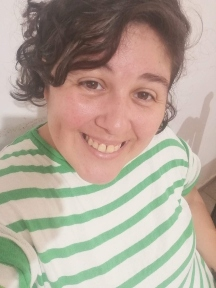
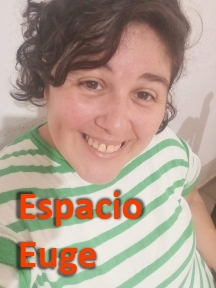
suma de media queries

Changed region(s): [[0.0556, 0.6562, 0.6944, 0.8125], [0.0556, 0.8125, 0.4722, 0.9688]]

diff --git a/css/style.css b/css/style.css
@@ -37,13 +37,7 @@ a {
     margin-left: 30px;
 }
 .head__fotoyo {
-    width: 100%;
-}
-h2.head__tituloyo {
-    font-size: 42px;
-    color: #F53D00;
-    padding: 10px;
-    text-shadow: 0 0 15px black;
+    width: 80%;
 }
 .head__natura {
     grid-area: natura;
@@ -71,7 +65,7 @@ div.head__nav ul {
     font-weight: bold;
     padding: 5px;
 }
-/* FlexBox Foot */
+/* Grid Foot */
 footer {
     display: grid;
     grid-template-areas: "nav2 navrrss";
@@ -334,16 +328,16 @@ h2.galeria__titulo {
     padding: 20px;
 }
 /* Pronta Final */
-/* M]edia tablet */
+/* Media tablet */
 @media only screen and (min-width:769px) and (max-width:1024px) {
     a {
         font-size: 18px; 
     } 
     .head {
         display: grid;
-        grid-template-areas: "euge euge natura"
-                            ". nav1 nav1";
-        grid-template-columns: 25% 50% auto;
+        grid-template-areas: "euge  natura"
+                            ".  nav1";
+        grid-template-columns: 50% auto;
         background-size: cover;
         width: 100%;
     }
@@ -412,7 +406,7 @@ h2.galeria__titulo {
     /* Online Final */
 }
 /* Media Mobile */
-@media only screen and (min-width:400px) and (max-width:768px) {
+@media only screen and (min-width:0px) and (max-width:768px) {
     /* Grid Head */
     .head {
         display: grid;
@@ -521,4 +515,3 @@ h2.galeria__titulo {
         margin-left: 0px;
     }
 }
-/* Media  Mini jajaja (mi celu no se como poenrlo */

diff --git a/pages/actualciclo.html b/pages/actualciclo.html
@@ -11,7 +11,6 @@
     <header class="head">
         <div class="head__yo">
             <a href="../index.html"><img class="head__fotoyo" src="../images/fotoperfil.jpg" alt="Foto de perfil de Euge"></a>
-            <h2 class="head__tituloyo">Espacio Euge</h2>
         </div>
         <div class="head__natura">
             <img class="head__logonatura" src="../images/logonatura.jpg" alt="Logo de Natura">

diff --git a/pages/online.html b/pages/online.html
@@ -11,7 +11,6 @@
     <header class="head">
         <div class="head__yo">
             <a href="../index.html"><img class="head__fotoyo" src="../images/fotoperfil.jpg" alt="Foto de perfil de Euge"></a>
-            <h2 class="head__tituloyo">Espacio Euge</h2>
         </div>
         <div class="head__natura">
             <img class="head__logonatura" src="../images/logonatura.jpg" alt="Logo de Natura">

diff --git a/pages/contacto.html b/pages/contacto.html
@@ -11,7 +11,6 @@
     <header class="head">
        <div class="head__yo">
             <a href="../index.html"><img class="head__fotoyo" src="../images/fotoperfil.jpg" alt="Foto de perfil de Euge"></a>
-            <h2 class="head__tituloyo">Espacio Euge</h2>
         </div>
         <div class="head__natura">
             <img class="head__logonatura" src="../images/logonatura.jpg" alt="Logo de Natura">

diff --git a/pages/pronta.html b/pages/pronta.html
@@ -11,7 +11,6 @@
     <header class="head">
        <div class="head__yo">
             <a href="../index.html"><img class="head__fotoyo" src="../images/fotoperfil.jpg" alt="Foto de perfil de Euge"></a>
-            <h2 class="head__tituloyo">Espacio Euge</h2>
         </div>
         <div class="head__natura">
             <img class="head__logonatura" src="../images/logonatura.jpg" alt="Logo de Natura">

diff --git a/index.html b/index.html
@@ -11,7 +11,6 @@
     <header class="head">
         <div class="head__yo">
             <a href="index.html"><img class="head__fotoyo" src="images/fotoperfil.jpg" alt="Foto de perfil de Euge"></a>
-            <h2 class="head__tituloyo">Espacio Euge</h2>
         </div>
         <div class="head__natura">
             <img class="head__logonatura" src="images/logonatura.jpg" alt="Logo de Natura">
